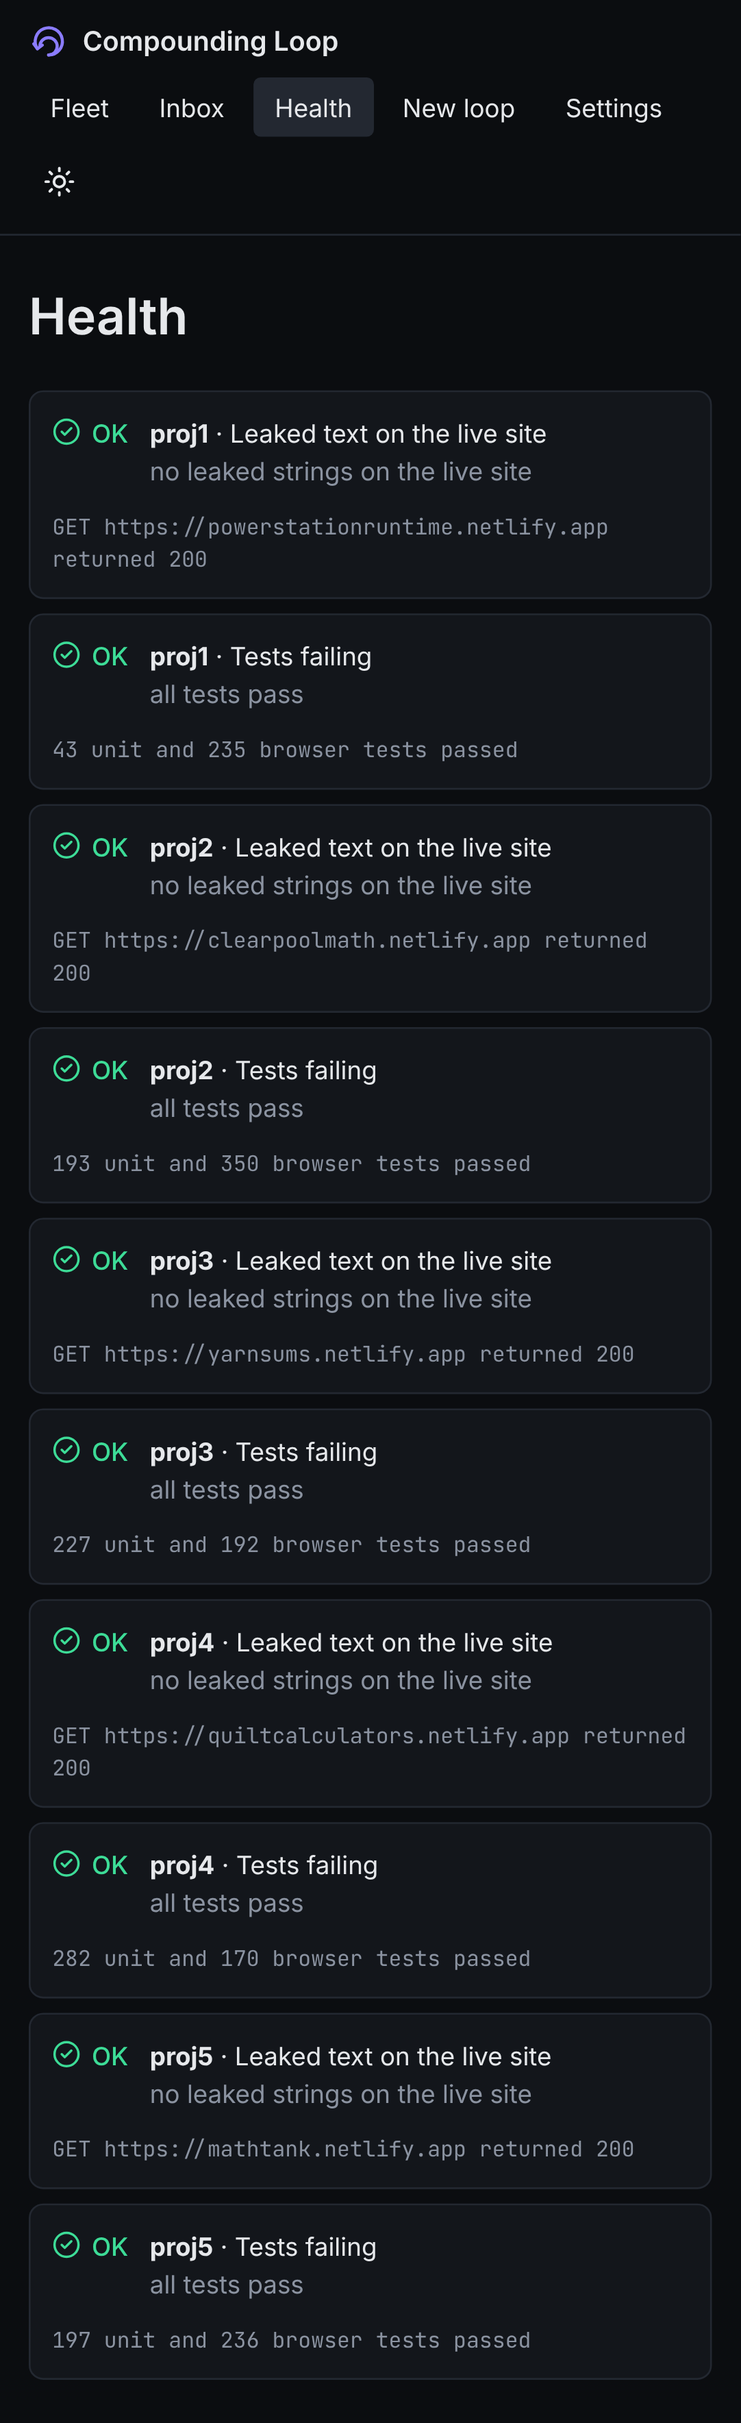
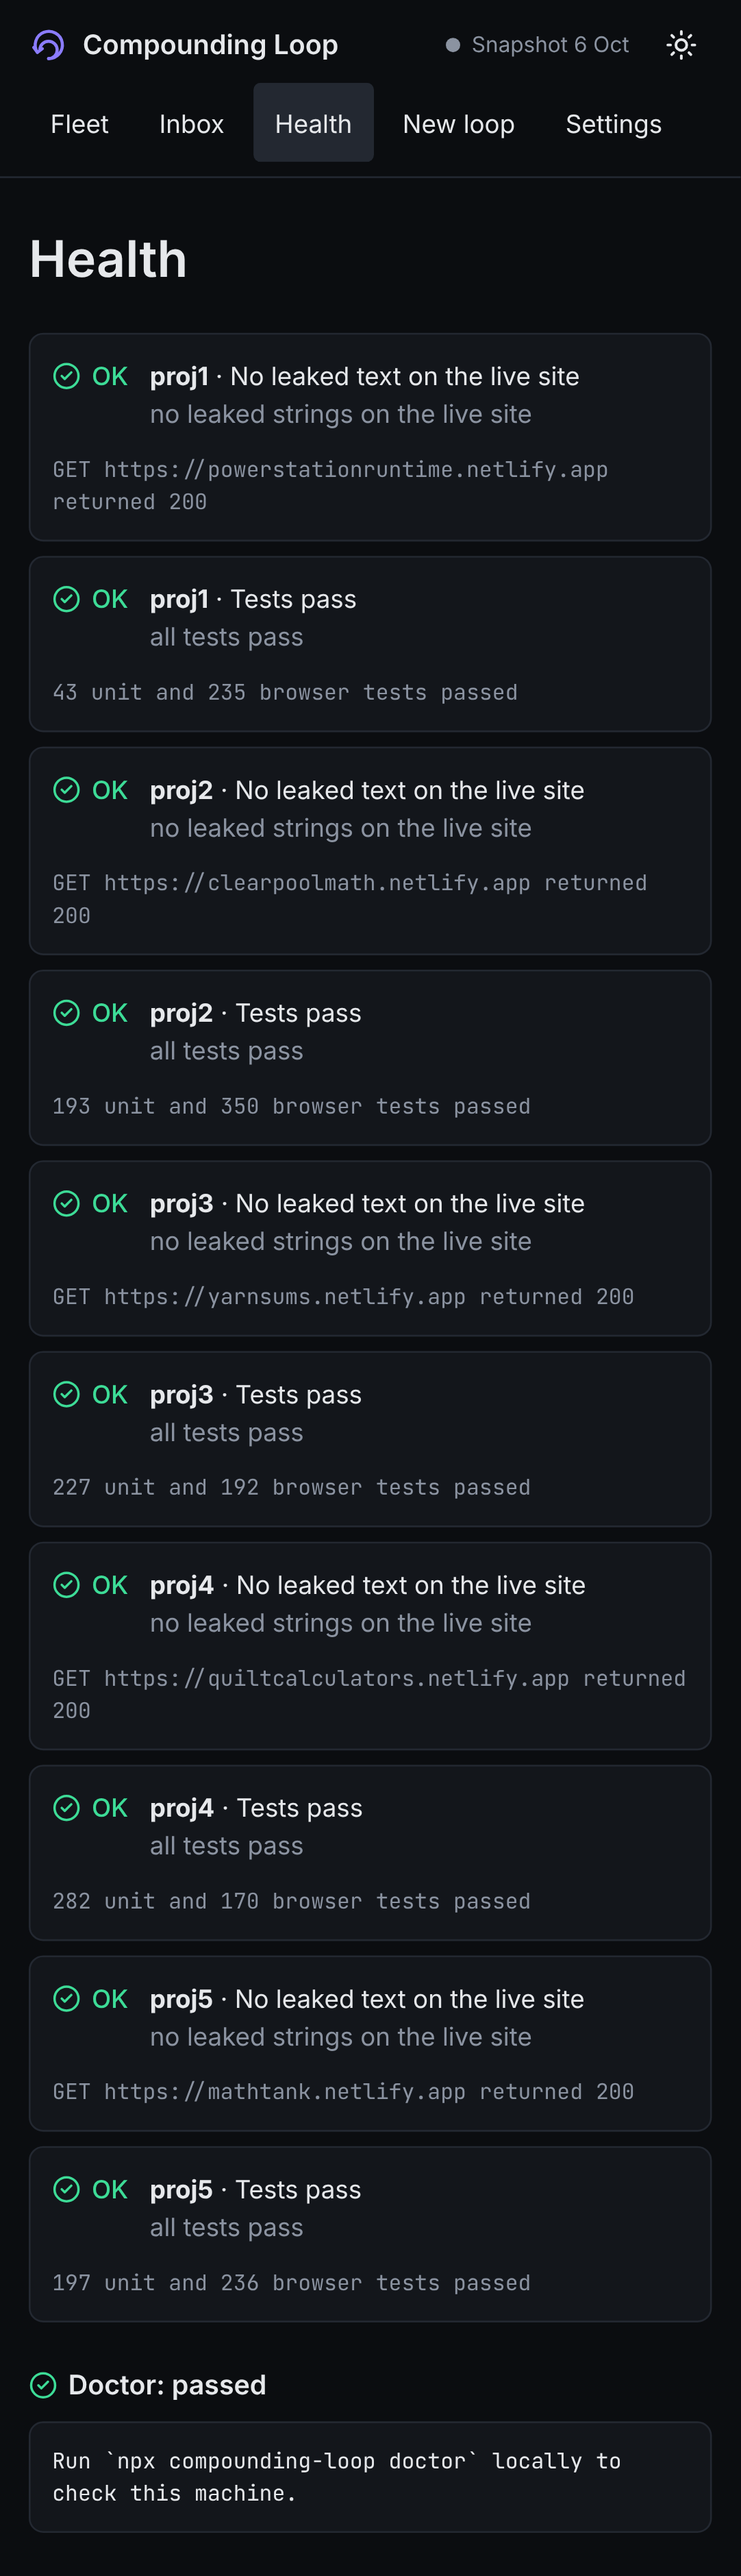
web: round 4 design review recorded, phone screenshots re-shot
Lane: web
Claude-Session: https://claude.ai/code/session_01VTh3G4sCdqdU8kDEjbJZE6

diff --git a/.ai/audit/web.md b/.ai/audit/web.md
@@ -80,3 +80,9 @@ Reviewer subagent (did not write the UI) compared `web/design/after/*` with DESI
 - Its three blockers (no welcome strip, no live/snapshot chip, no lane features) were a capture fault: the screenshots ran against a live dashboard server, which hides the strip and chip by design, and showed a non-lane site. Fixed in `tests/e2e/screenshots.spec.ts` (demo mode via a 404 health route; new `self` screen for the self-build loop). Re-shot: strip, chip, lane colours, lane filter, day groups and commits-per-day chart are visible.
 - Still open, minor: loop header shows "Round 2/3 · Run 36/250" as mono text (no bar); phone tab rows clip "Settings" without a scroll cue and loop tabs wrap to two rows; self-build card story line contradicts its "Done" badge when live data is stale; fleet cards lack run bars; orphan card in the 3-up grid; the bundled snapshot has no self-build card (server's data, dated 6 Oct).
 - Not reviewed by the subagent: inbox, health, new, settings, and states (covered by axe and e2e).
+
+## Round 4 independent design review (2026-10-12, run 11)
+Reviewer subagent (did not write the UI) read `docs/assets/screens/*` against DESIGN.md and IDEA.md Round 4.
+- Blocker, fixed: the phone screenshots were stale (pre-round-3 UI, theme toggle wrapping). Re-shot with `SCREENS=1 npx playwright test screenshots --project=phone`; theme button, snapshot chip and welcome strip now share the header row, cards have progress bars.
+- Open, data not UI: the snapshot has no run log and no self card in the fleet grid, so Runs/Tests/Releases tabs, newest-run line, Paused, Ready to ship and the confirm dialog appear in no screenshot (they are covered by fixture e2e). Needs server fixture data for a laned, paused or ready-to-ship loop; screenshot specs should then use it.
+- Open, minor: Health rows read "proj1..proj5" in the demo (snapshot data), duplicated check label/sub-line; fleet h1 repeats the brand name; "Snapshot from" chip spacing; welcome strip text wraps at ~55% width; loop/health pages show the snapshot date only in the header chip. Not reviewed: dark variants of health/loop/self, inbox, settings, new.

diff --git a/.ai/lanes/web/task.md b/.ai/lanes/web/task.md
@@ -1,6 +1,6 @@
 # Lane: web — round 4 (0.4.0 "Control")
 
-Run: 10 / 20
+Run: 11 / 20
 Status: units 1 (partial), 2, 3 (most), 4 shipped (Runs tab, card status line), 6 partly (Ready to ship panel read-only, Releases tab, paused notice); ControlBar (Pause/Resume, Next round, Release with confirm dialog) shipped; Tests tab (done run 3), launch drafts + Copy, Inbox edit links, Release as filled primary, post-action toast, 7-8 open
 Round 3 record: `.ai/lanes/web/done-v3.md` (`git show b3b51a5:.ai/lanes/web/task.md` for its Decisions).
 
@@ -50,6 +50,8 @@ Round 3 record: `.ai/lanes/web/done-v3.md` (`git show b3b51a5:.ai/lanes/web/task
 - Run 9: stale clone, worked on lane-run; npm test green on fresh pull. Tests tab data table is now a visible "Show as table" disclosure (+ e2e). Small diff, no reviewer subagent. Still open in unit 7: Tests commit link, rate-limited state; unit 8 screenshots + design review.
 
 - Run 10: stale clone, lane-run; npm test green (144 passed). Re-shot docs/assets/screens (laptop, demo mode). Tried Runs/Tests tab shots: the self loop has no run log in the snapshot, so the tabs don't exist there; dropped. Needs run-log fixture data (server) before those can be shot. Still open: Tests commit link (needs sha per run), unit 8 independent design review.
+
+- Run 11: stale clone, lane-run; npm test green (144 passed). Independent design review recorded in `.ai/audit/web.md` (unit 8); phone screenshots were stale, re-shot. Next: fix minor review items (fleet h1 repeats brand, Health row labels/duplicate text, snapshot chip spacing), Tests commit link; Paused/ready-to-ship shots need fixture data (ask server).
 
 ## Don't
 - Edit paths another lane owns, except for the "main stays green" fix.

diff --git a/.ai/lanes/web/outbox.md b/.ai/lanes/web/outbox.md
@@ -1,5 +1,6 @@
 # Outbox: web
 
+2026-10-12 06:58 UTC · to docs · phone screenshots in docs/assets/screens/ re-shot (current UI: header row, strip, progress bars); laptop ones from run 10. Control labels: Pause all / Resume, Start next round, Release (Ready to ship panel on a loop with root DONE.md); static demo opens the prefilled GitHub page, local server acts directly.
 2026-10-12 02:58 UTC · to docs · also on main: Health shows a Doctor report (server) or the `npx compounding-loop doctor` pointer (static demo); Inbox questions link to `Edit BLOCKED.md on GitHub` in the static demo; loop page shows `Control room notes`.
 
 2026-10-12 00:55 UTC · to docs · Controls are on main (loop page, laned loops): `Pause all` / `Resume`, `Start next round`, `Release`; Ready to ship panel titled `Ready to ship` / `Not ready to ship`. Each opens a confirm dialog that says what changes. Local server: Pause/Resume/Next round call the server (commit + push to main); Release always opens the prefilled release-workflow page. Static demo: all open the prefilled GitHub page (new tab); nothing is published until the user presses Run workflow. Release is disabled with a reason until ship-check passes. Next-round needs a brief scoring >= the minimum and short enough for a URL. Texts: web/src/lib/controls.ts CHANGE_TEXT.
